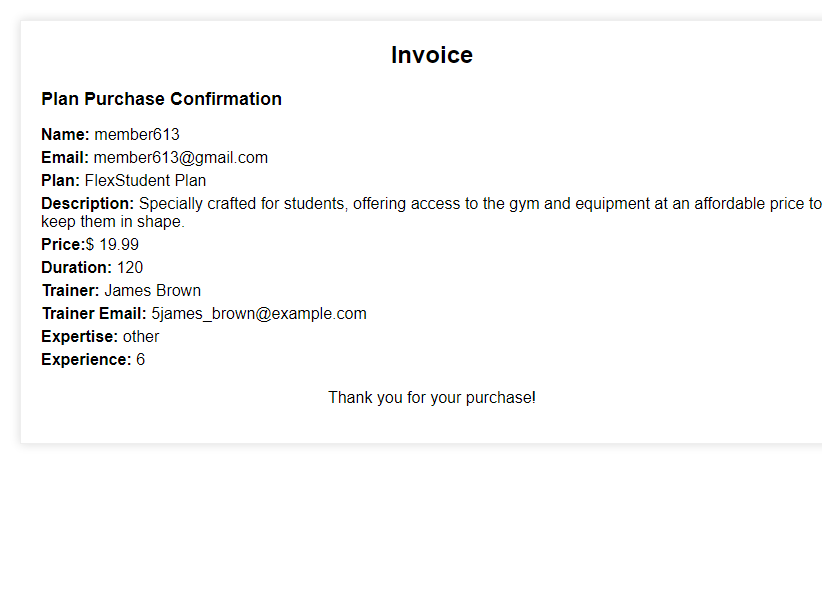
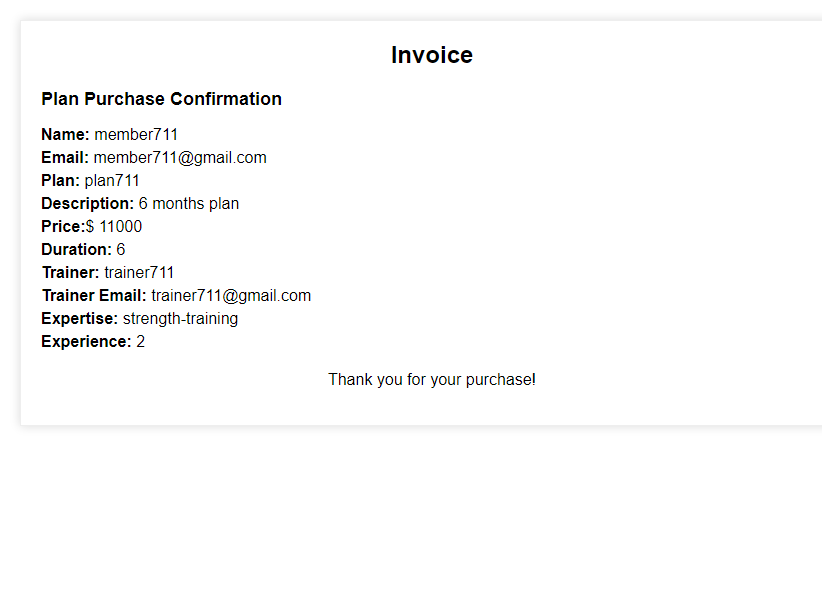
partial payments done

Changed region(s): [[0.0304, 0.21, 1.0, 0.63], [0.3954, 0.6, 0.6691, 0.69]]

diff --git a/controllers/paymentController.js b/controllers/paymentController.js
@@ -2,14 +2,11 @@ const { check, validationResult } = require("express-validator");
 const Payment = require("../models/Payment");
 const Plan = require("../models/Plan");
 const User = require("../models/User");
-const {sendConfirmationEmail,sendEmail} = require("../utils/emailService");
+const { sendConfirmationEmail, sendEmail } = require("../utils/emailService");
 const Trainer = require("../models/Trainer");
-const PartialPaymentSchema=require("../models/PartialPaymentSchema");
+const PartialPaymentSchema = require("../models/PartialPaymentSchema");
 
 // ------------------------------------------------------------------------------------------------
-
-
-
 
 // ------------------------------------------------------------------------------------------------
 
@@ -37,7 +34,7 @@ const validatePlanPurchase = [
     .isLength({ min: 5, max: 5 })
     .withMessage("Zip code must be 5 digits"),
 ];
- 
+
 const planPurchase = async (req, res) => {
   const errors = validationResult(req);
   if (!errors.isEmpty()) {
@@ -50,13 +47,17 @@ const planPurchase = async (req, res) => {
   try {
     const user = await User.findById(userId).populate("payments");
     if (!user) {
-      return res.status(404).json({ success: false, message: "User not found" });
+      return res
+        .status(404)
+        .json({ success: false, message: "User not found" });
     }
 
     const currentDate = new Date();
     const paymentAmount = Number(amount);
     if (isNaN(paymentAmount) || paymentAmount <= 0) {
-      return res.status(400).json({ success: false, message: "Invalid payment amount" });
+      return res
+        .status(400)
+        .json({ success: false, message: "Invalid payment amount" });
     }
 
     let plan, planFee, expiryDate;
@@ -66,11 +67,15 @@ const planPurchase = async (req, res) => {
       // New plan purchase
       plan = await Plan.findById(planId);
       if (!plan) {
-        return res.status(404).json({ success: false, message: "Plan not found" });
+        return res
+          .status(404)
+          .json({ success: false, message: "Plan not found" });
       }
       planFee = Number(plan.price);
       if (isNaN(planFee) || planFee <= 0) {
-        return res.status(400).json({ success: false, message: "Invalid plan price" });
+        return res
+          .status(400)
+          .json({ success: false, message: "Invalid plan price" });
       }
 
       // Check if user has an active plan
@@ -79,25 +84,30 @@ const planPurchase = async (req, res) => {
         if (latestPayment && latestPayment.remainingAmount > 0) {
           return res.status(400).json({
             success: false,
-            message: `You cannot purchase a new plan until you fully pay your current plan (${user.planName}). Remaining balance: ${latestPayment.remainingAmount.toFixed(2)}`,
+            message: `You cannot purchase a new plan until you fully pay your current plan (${
+              user.planName
+            }). Remaining balance: ${latestPayment.remainingAmount.toFixed(2)}`,
           });
         }
       }
 
       expiryDate = new Date(currentDate);
-      expiryDate.setDate(currentDate.getDate() + plan.duration);
+      expiryDate.setDate(currentDate.getDate() + plan.duration * 30);
     } else if (user.isActive && user.planId && user.payments.length > 0) {
       // Remaining payment for existing plan
       plan = await Plan.findById(user.planId);
       if (!plan) {
-        return res.status(404).json({ success: false, message: "Current plan not found" });
+        return res
+          .status(404)
+          .json({ success: false, message: "Current plan not found" });
       }
       planFee = Number(plan.price);
       expiryDate = user.planExpiry;
     } else {
       return res.status(400).json({
         success: false,
-        message: "No active plan to pay remaining balance for, and no new plan specified",
+        message:
+          "No active plan to pay remaining balance for, and no new plan specified",
       });
     }
 
@@ -132,13 +142,20 @@ const planPurchase = async (req, res) => {
       user.planId = planId;
     } else {
       // Payment for existing plan
-      const latestPayment = await PartialPaymentSchema.findById(user.payments[user.payments.length - 1]);
+      const latestPayment = await PartialPaymentSchema.findById(
+        user.payments[user.payments.length - 1]
+      );
       if (!latestPayment) {
-        return res.status(500).json({ success: false, message: "Latest payment record not found" });
+        return res
+          .status(500)
+          .json({ success: false, message: "Latest payment record not found" });
       }
 
       if (latestPayment.status === "completed") {
-        return res.status(400).json({ success: false, message: "Payment already completed for this plan" });
+        return res.status(400).json({
+          success: false,
+          message: "Payment already completed for this plan",
+        });
       }
 
       if (currentDate > latestPayment.deadline) {
@@ -146,12 +163,18 @@ const planPurchase = async (req, res) => {
         user.isActive = false;
         await latestPayment.save();
         await user.save();
-        return res.status(400).json({ success: false, message: "Payment deadline exceeded, plan deactivated" });
+        return res.status(400).json({
+          success: false,
+          message: "Payment deadline exceeded, plan deactivated",
+        });
       }
 
       const prevRemaining = Number(latestPayment.remainingAmount);
       if (isNaN(prevRemaining)) {
-        return res.status(500).json({ success: false, message: "Invalid remaining amount in previous payment" });
+        return res.status(500).json({
+          success: false,
+          message: "Invalid remaining amount in previous payment",
+        });
       }
 
       const totalPaid = planFee - prevRemaining + paymentAmount;
@@ -160,7 +183,9 @@ const planPurchase = async (req, res) => {
       if (newRemainingAmount < 0) {
         return res.status(400).json({
           success: false,
-          message: `Payment amount exceeds remaining balance. Remaining amount due: ${prevRemaining.toFixed(2)}`,
+          message: `Payment amount exceeds remaining balance. Remaining amount due: ${prevRemaining.toFixed(
+            2
+          )}`,
         });
       }
 
@@ -176,7 +201,10 @@ const planPurchase = async (req, res) => {
       user.payments.push(partialPayment._id);
     }
 
-    let payment = await Payment.findOne({ userId, planId: planId || user.planId });
+    let payment = await Payment.findOne({
+      userId,
+      planId: planId || user.planId,
+    });
     if (!payment && user.payments.length === 1) {
       payment = new Payment({
         userId,
@@ -199,7 +227,11 @@ const planPurchase = async (req, res) => {
           await trainer.save();
         } catch (trainerError) {
           console.log("Trainer save error:", trainerError);
-          return res.status(500).json({ success: false, message: "Failed to update trainer", error: trainerError.message });
+          return res.status(500).json({
+            success: false,
+            message: "Failed to update trainer",
+            error: trainerError.message,
+          });
         }
         user.trainerName = trainer.name;
       }
@@ -209,7 +241,7 @@ const planPurchase = async (req, res) => {
     }
 
     await user.save();
-    const updatedUser = await User.findById(userId).populate('payments');
+    const updatedUser = await User.findById(userId).populate("payments");
 
     if (user.payments.length === 1 || partialPayment.remainingAmount === 0) {
       try {
@@ -221,9 +253,10 @@ const planPurchase = async (req, res) => {
 
     res.status(200).json({
       success: true,
-      message: user.payments.length === 1
-        ? "Plan enrolled successfully!"
-        : partialPayment.remainingAmount === 0
+      message:
+        user.payments.length === 1
+          ? "Plan enrolled successfully!"
+          : partialPayment.remainingAmount === 0
           ? "Plan fully paid and active!"
           : "Partial payment recorded successfully",
       planExpiry: expiryDate,
@@ -237,14 +270,15 @@ const planPurchase = async (req, res) => {
   }
 };
 
-
-const getMemberRemainingPaymentStatus=async(req,res)=>{
+const getMemberRemainingPaymentStatus = async (req, res) => {
   try {
     const userId = req.user.id;
-    const user = await User.findById(userId).populate('payments');
+    const user = await User.findById(userId).populate("payments");
 
     if (!user) {
-      return res.status(404).json({ success: false, message: 'User not found' });
+      return res
+        .status(404)
+        .json({ success: false, message: "User not found" });
     }
 
     const currentDate = new Date();
@@ -254,12 +288,12 @@ const getMemberRemainingPaymentStatus=async(req,res)=>{
       const plan = user.planId ? await Plan.findById(user.planId) : null;
       return res.status(200).json({
         success: true,
-        planName: user.planName || 'No active plan',
+        planName: user.planName || "No active plan",
         totalAmount: plan ? plan.price : 0,
         amountPaid: 0,
         remainingAmount: plan ? plan.price : 0,
         deadline: null,
-        status: 'pending',
+        status: "pending",
         isActive: user.isActive,
         planExpiry: user.planExpiry,
         paymentHistory: [],
@@ -270,7 +304,10 @@ const getMemberRemainingPaymentStatus=async(req,res)=>{
     const latestPayment = user.payments[user.payments.length - 1];
     const plan = await Plan.findById(user.planId);
     const totalAmount = plan ? plan.price : 0;
-    const amountPaid = user.payments.reduce((sum, payment) => sum + payment.amountPaid, 0);
+    const amountPaid = user.payments.reduce(
+      (sum, payment) => sum + payment.amountPaid,
+      0
+    );
     const remainingAmount = latestPayment.remainingAmount;
 
     res.status(200).json({
@@ -283,7 +320,7 @@ const getMemberRemainingPaymentStatus=async(req,res)=>{
       status: latestPayment.status,
       isActive: user.isActive,
       planExpiry: user.planExpiry,
-      paymentHistory: user.payments.map(payment => ({
+      paymentHistory: user.payments.map((payment) => ({
         amountPaid: payment.amountPaid.toFixed(2),
         paymentDate: payment.paymentDate,
         remainingAmount: payment.remainingAmount.toFixed(2),
@@ -291,11 +328,10 @@ const getMemberRemainingPaymentStatus=async(req,res)=>{
       })),
     });
   } catch (error) {
-    console.log('Error fetching payment status:', error);
+    console.log("Error fetching payment status:", error);
     res.status(500).json({ success: false, error: error.message });
   }
-}
-
+};
 
 // ye wala admin payment ka hain
 const getMemberPaymentDetails = async (req, res) => {
@@ -303,8 +339,10 @@ const getMemberPaymentDetails = async (req, res) => {
   const userId = req.params.id;
 
   try {
-      // const payment = await Payment.find().limit(100).populate("userId planId");
-    const payments = await Payment.find({ userId: userId }).populate("userId").populate("planId");
+    // const payment = await Payment.find().limit(100).populate("userId planId");
+    const payments = await Payment.find({ userId: userId })
+      .populate("userId")
+      .populate("planId");
     // const planInfo = await Plan.findById(payments.planId);
 
     res.status(200).json(payments);
@@ -319,7 +357,7 @@ const getUserPaymentDetails = async (req, res) => {
   const userId = req.params.id;
 
   try {
-      // const payment = await Payment.find().limit(100).populate("userId planId");
+    // const payment = await Payment.find().limit(100).populate("userId planId");
     const payments = await Payment.find({ userId: userId }).populate("");
     const planInfo = await Plan.findById(payments.planId);
 
@@ -328,7 +366,6 @@ const getUserPaymentDetails = async (req, res) => {
     res.status(500).json({ success: false, error: error.message });
   }
 };
-
 
 const getAllPayments = async (req, res) => {
   try {
@@ -344,4 +381,10 @@ const getAllPayments = async (req, res) => {
   }
 };
 
-module.exports = {getMemberRemainingPaymentStatus, getMemberPaymentDetails, planPurchase, getAllPayments,getUserPaymentDetails };
+module.exports = {
+  getMemberRemainingPaymentStatus,
+  getMemberPaymentDetails,
+  planPurchase,
+  getAllPayments,
+  getUserPaymentDetails,
+};

diff --git a/controllers/trainerController.js b/controllers/trainerController.js
@@ -90,27 +90,43 @@ const createTrainer = async (req, res) => {
 // Update a trainer
 const updateTrainer = async (req, res) => {
   try {
-    const updatedTrainer = await Trainer.findByIdAndUpdate(
-      req.params.id,
-      req.body,
-      {
-        new: true,
-        runValidators: true,
-      }
+    const { name, email, expertise, experience, salary } = req.body;
+
+    console.log(
+      "update info varify : ",
+      name,
+      email,
+      expertise,
+      experience,
+      salary
     );
-    if (!updatedTrainer) {
-      return res.status(404).json({
-        status: "fail",
-        message: "Trainer not found",
-      });
+
+    const trainer = await Trainer.findById(req.params.id);
+    if (!trainer) {
+      return res.status(404).json({ message: "Trainer not found" });
     }
-    console.log("updated information from backend :", updatedTrainer);
-    res.status(200).json(updatedTrainer);
-  } catch (err) {
-    res.status(500).json({
-      status: "error",
-      message: err.message,
+    // Find and update trainer
+    const updatedTrainer = await Trainer.findByIdAndUpdate(req.params.id, {
+      name,
+      email,
+      expertise,
+      experience,
+      salary,
     });
+
+    if (!updatedTrainer) {
+      return res
+        .status(404)
+        .json({ message: "Trainer not updated something wrong." });
+    }
+
+    res.status(200).json({
+      message: "Trainer updated successfully",
+      trainer: updatedTrainer,
+    });
+  } catch (error) {
+    console.error("Error updating trainer:", error);
+    res.status(500).json({ message: "Internal Server Error" });
   }
 };
 
@@ -142,7 +158,9 @@ const updateTrainerAdmin = async (req, res) => {
     });
 
     if (!updatedTrainer) {
-      return res.status(404).json({ message: "Trainer not updated something wrong." });
+      return res
+        .status(404)
+        .json({ message: "Trainer not updated something wrong." });
     }
 
     res.status(200).json({

diff --git a/routes/trainerRoutes.js b/routes/trainerRoutes.js
@@ -26,6 +26,11 @@ router.put(
 
   updateTrainerAdmin
 );
+router.put(
+  "/profile/:id",
+
+  updateTrainer
+);
 router.delete(
   "/:id",
 
